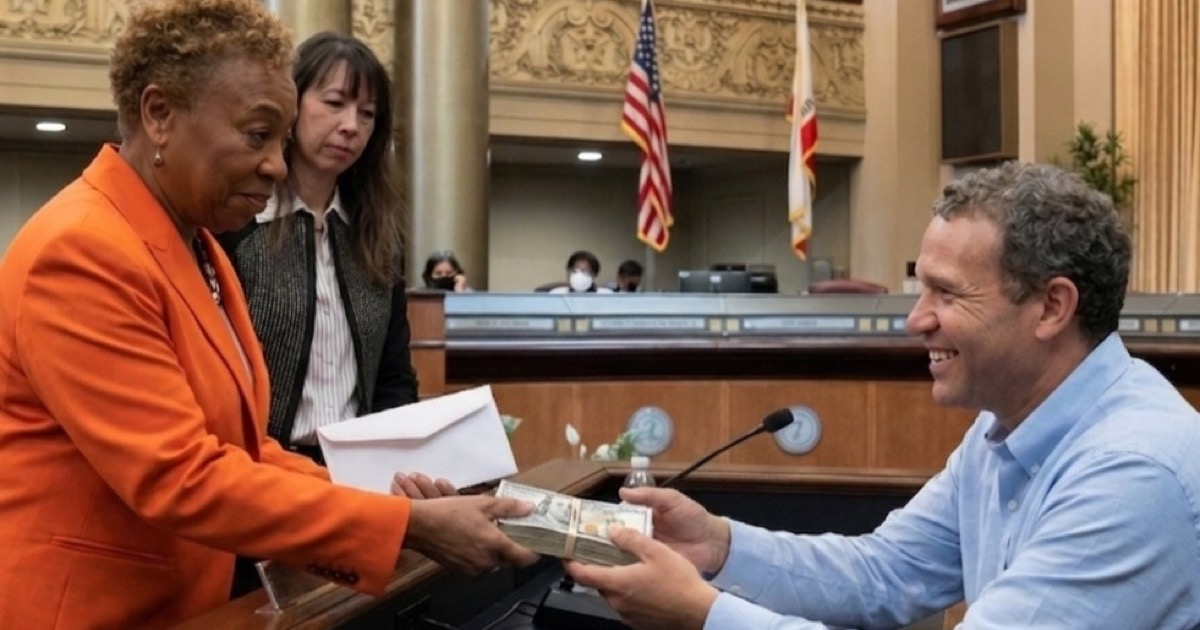
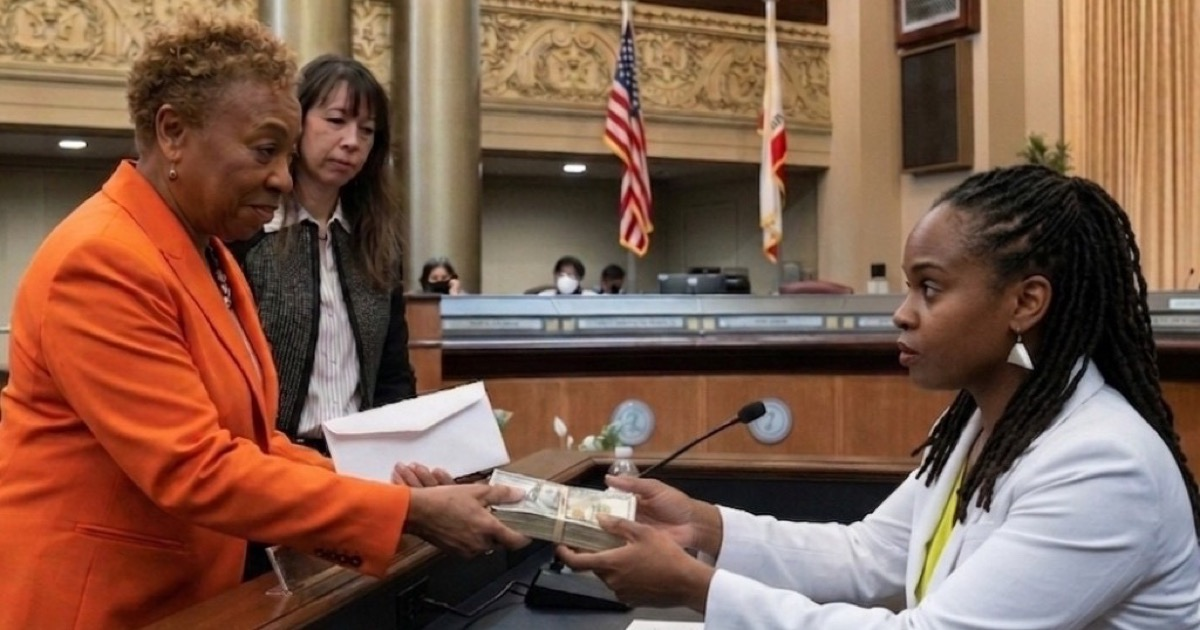
Update social share thumbnail to new City Hall image.
Replace OG/Twitter card image at 1200x630 and cache-bust preview URL so X and other platforms pick up the new thumbnail.

diff --git a/index.html b/index.html
@@ -23,19 +23,19 @@
   <meta property="og:title" content="Vote NO: Barbara Lee's Power Grab">
   <meta property="og:description" content="She's grabbing line-item veto power, hiding a 125% council pay raise, and silencing your district rep — while Oakland bleeds. $290M deficit. Corruption ties. Vote NO Nov 3, 2026.">
   <meta property="og:url" content="https://oaklandpowergrab.com/">
-  <meta property="og:image" content="https://oaklandpowergrab.com/og-image.jpg">
-  <meta property="og:image:secure_url" content="https://oaklandpowergrab.com/og-image.jpg">
+  <meta property="og:image" content="https://oaklandpowergrab.com/og-image.jpg?v=2">
+  <meta property="og:image:secure_url" content="https://oaklandpowergrab.com/og-image.jpg?v=2">
   <meta property="og:image:type" content="image/jpeg">
   <meta property="og:image:width" content="1200">
   <meta property="og:image:height" content="630">
-  <meta property="og:image:alt" content="Barbara Lee handing cash in Oakland City Hall — documented corruption and a power grab Oakland cannot afford">
+  <meta property="og:image:alt" content="Barbara Lee passing a stack of cash in Oakland City Hall — corruption, payoffs, and a power grab voters must stop">
   <meta property="og:locale" content="en_US">
   <!-- Twitter / X Card -->
   <meta name="twitter:card" content="summary_large_image">
   <meta name="twitter:title" content="Vote NO: Barbara Lee's Power Grab">
   <meta name="twitter:description" content="Line-item veto. Hidden 125% pay raise. Your councilmember silenced. $290M deficit & corruption ties. Oakland deserves better — Vote NO Nov 3, 2026.">
-  <meta name="twitter:image" content="https://oaklandpowergrab.com/og-image.jpg">
-  <meta name="twitter:image:alt" content="Barbara Lee handing cash in Oakland City Hall — documented corruption and a power grab Oakland cannot afford">
+  <meta name="twitter:image" content="https://oaklandpowergrab.com/og-image.jpg?v=2">
+  <meta name="twitter:image:alt" content="Barbara Lee passing a stack of cash in Oakland City Hall — corruption, payoffs, and a power grab voters must stop">
   <script type="application/ld+json">
   {
     "@context": "https://schema.org",
@@ -59,7 +59,7 @@
         "about": { "@id": "https://oaklandpowergrab.com/#measure" },
         "primaryImageOfPage": {
           "@type": "ImageObject",
-          "url": "https://oaklandpowergrab.com/og-image.jpg",
+          "url": "https://oaklandpowergrab.com/og-image.jpg?v=2",
           "width": 1200,
           "height": 630
         },
